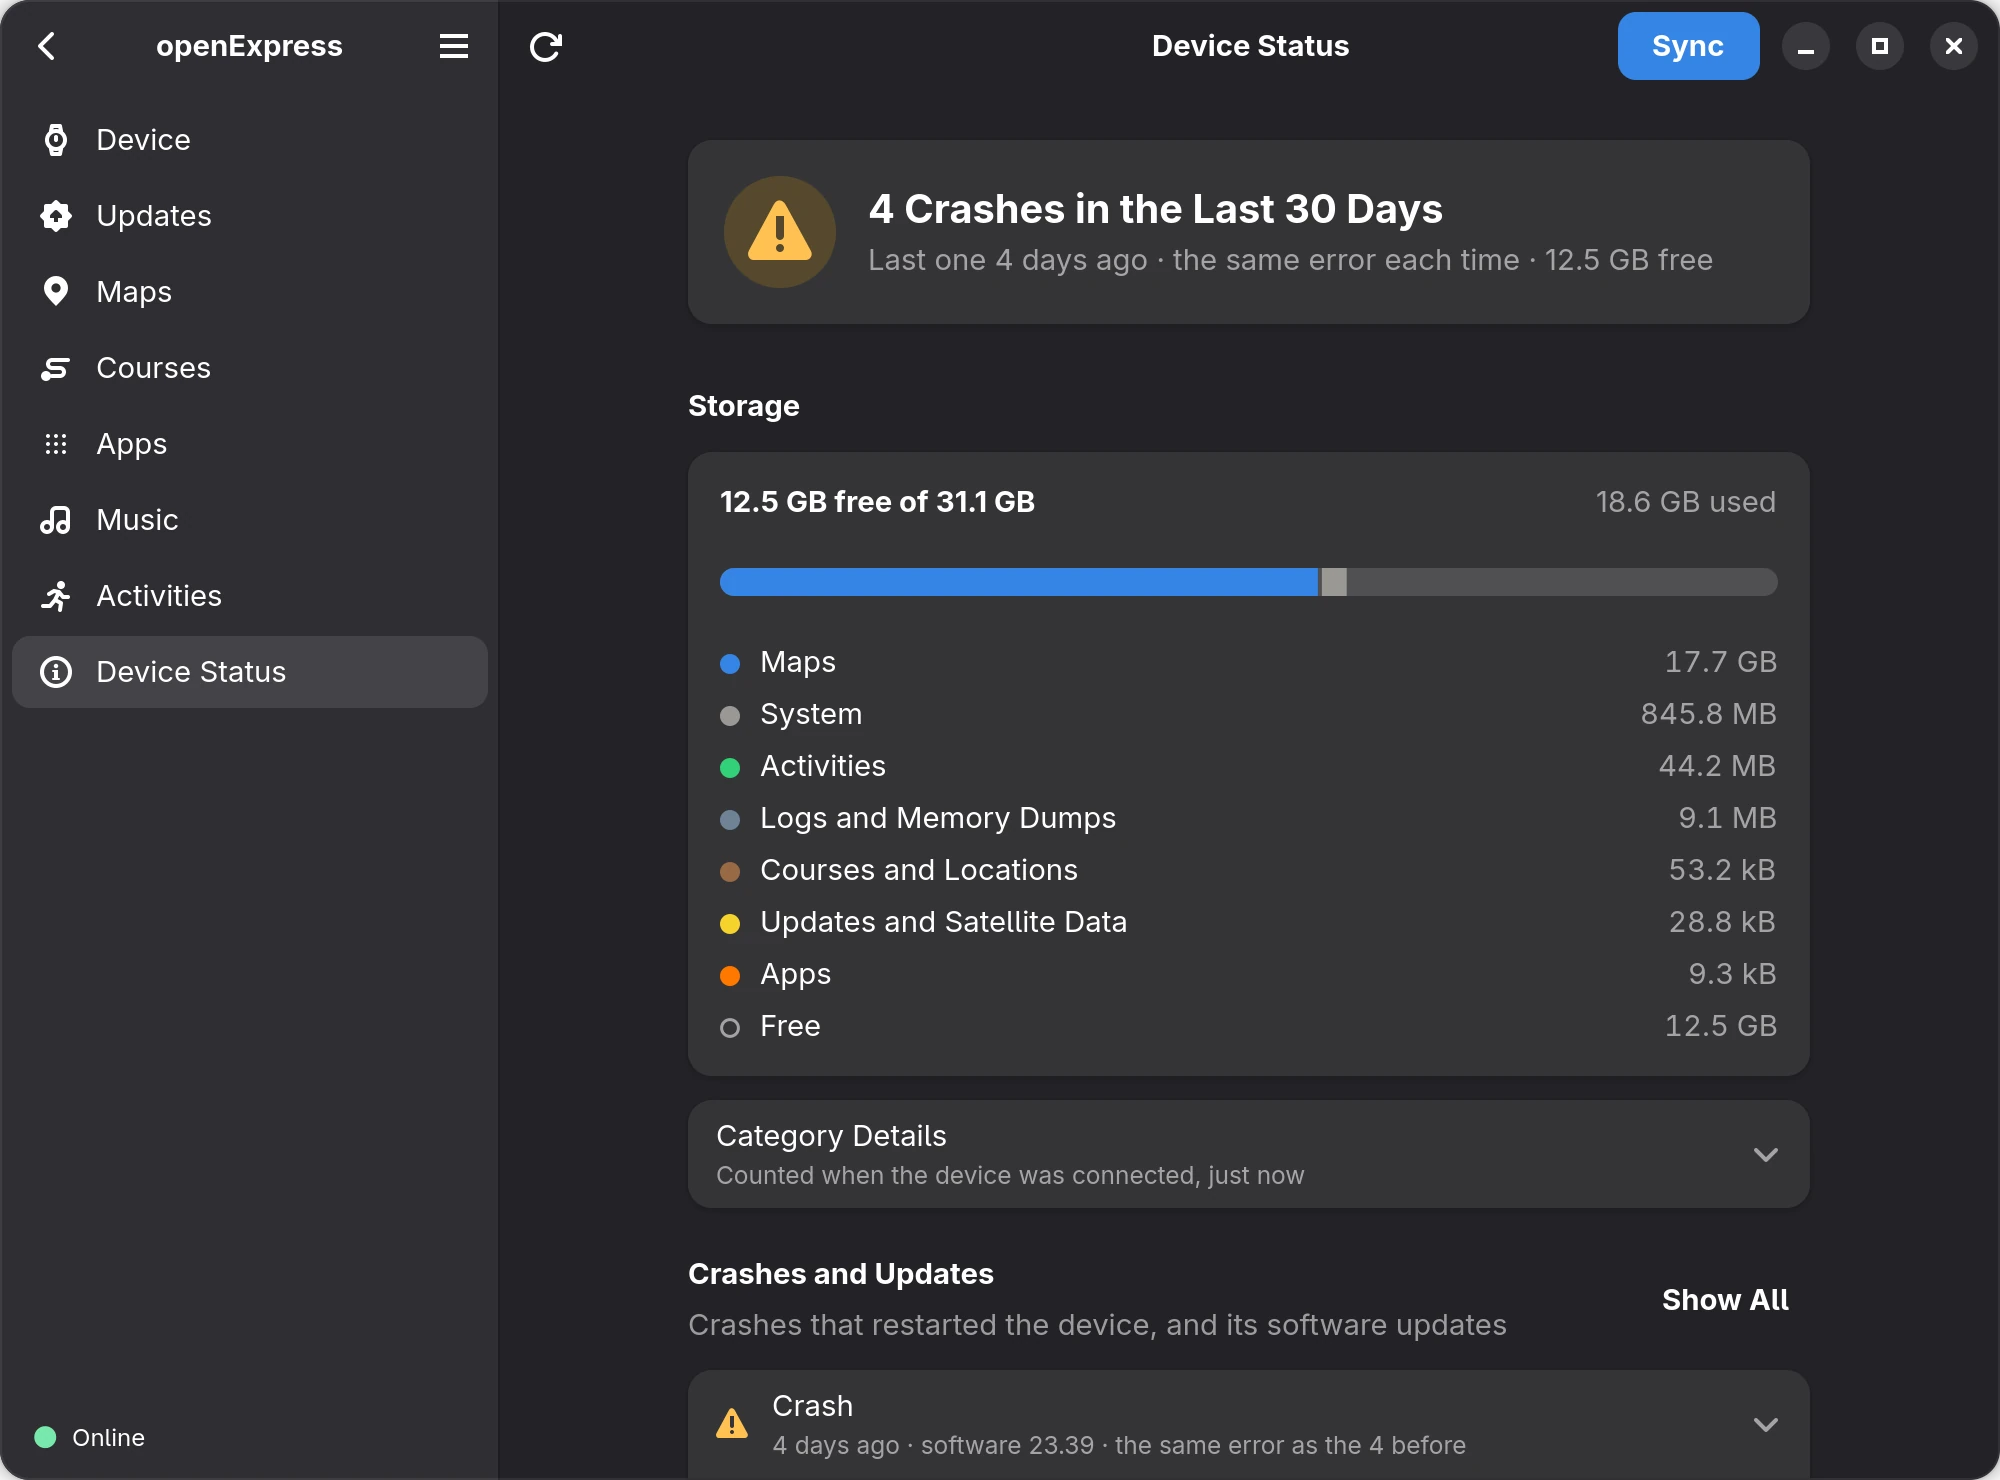
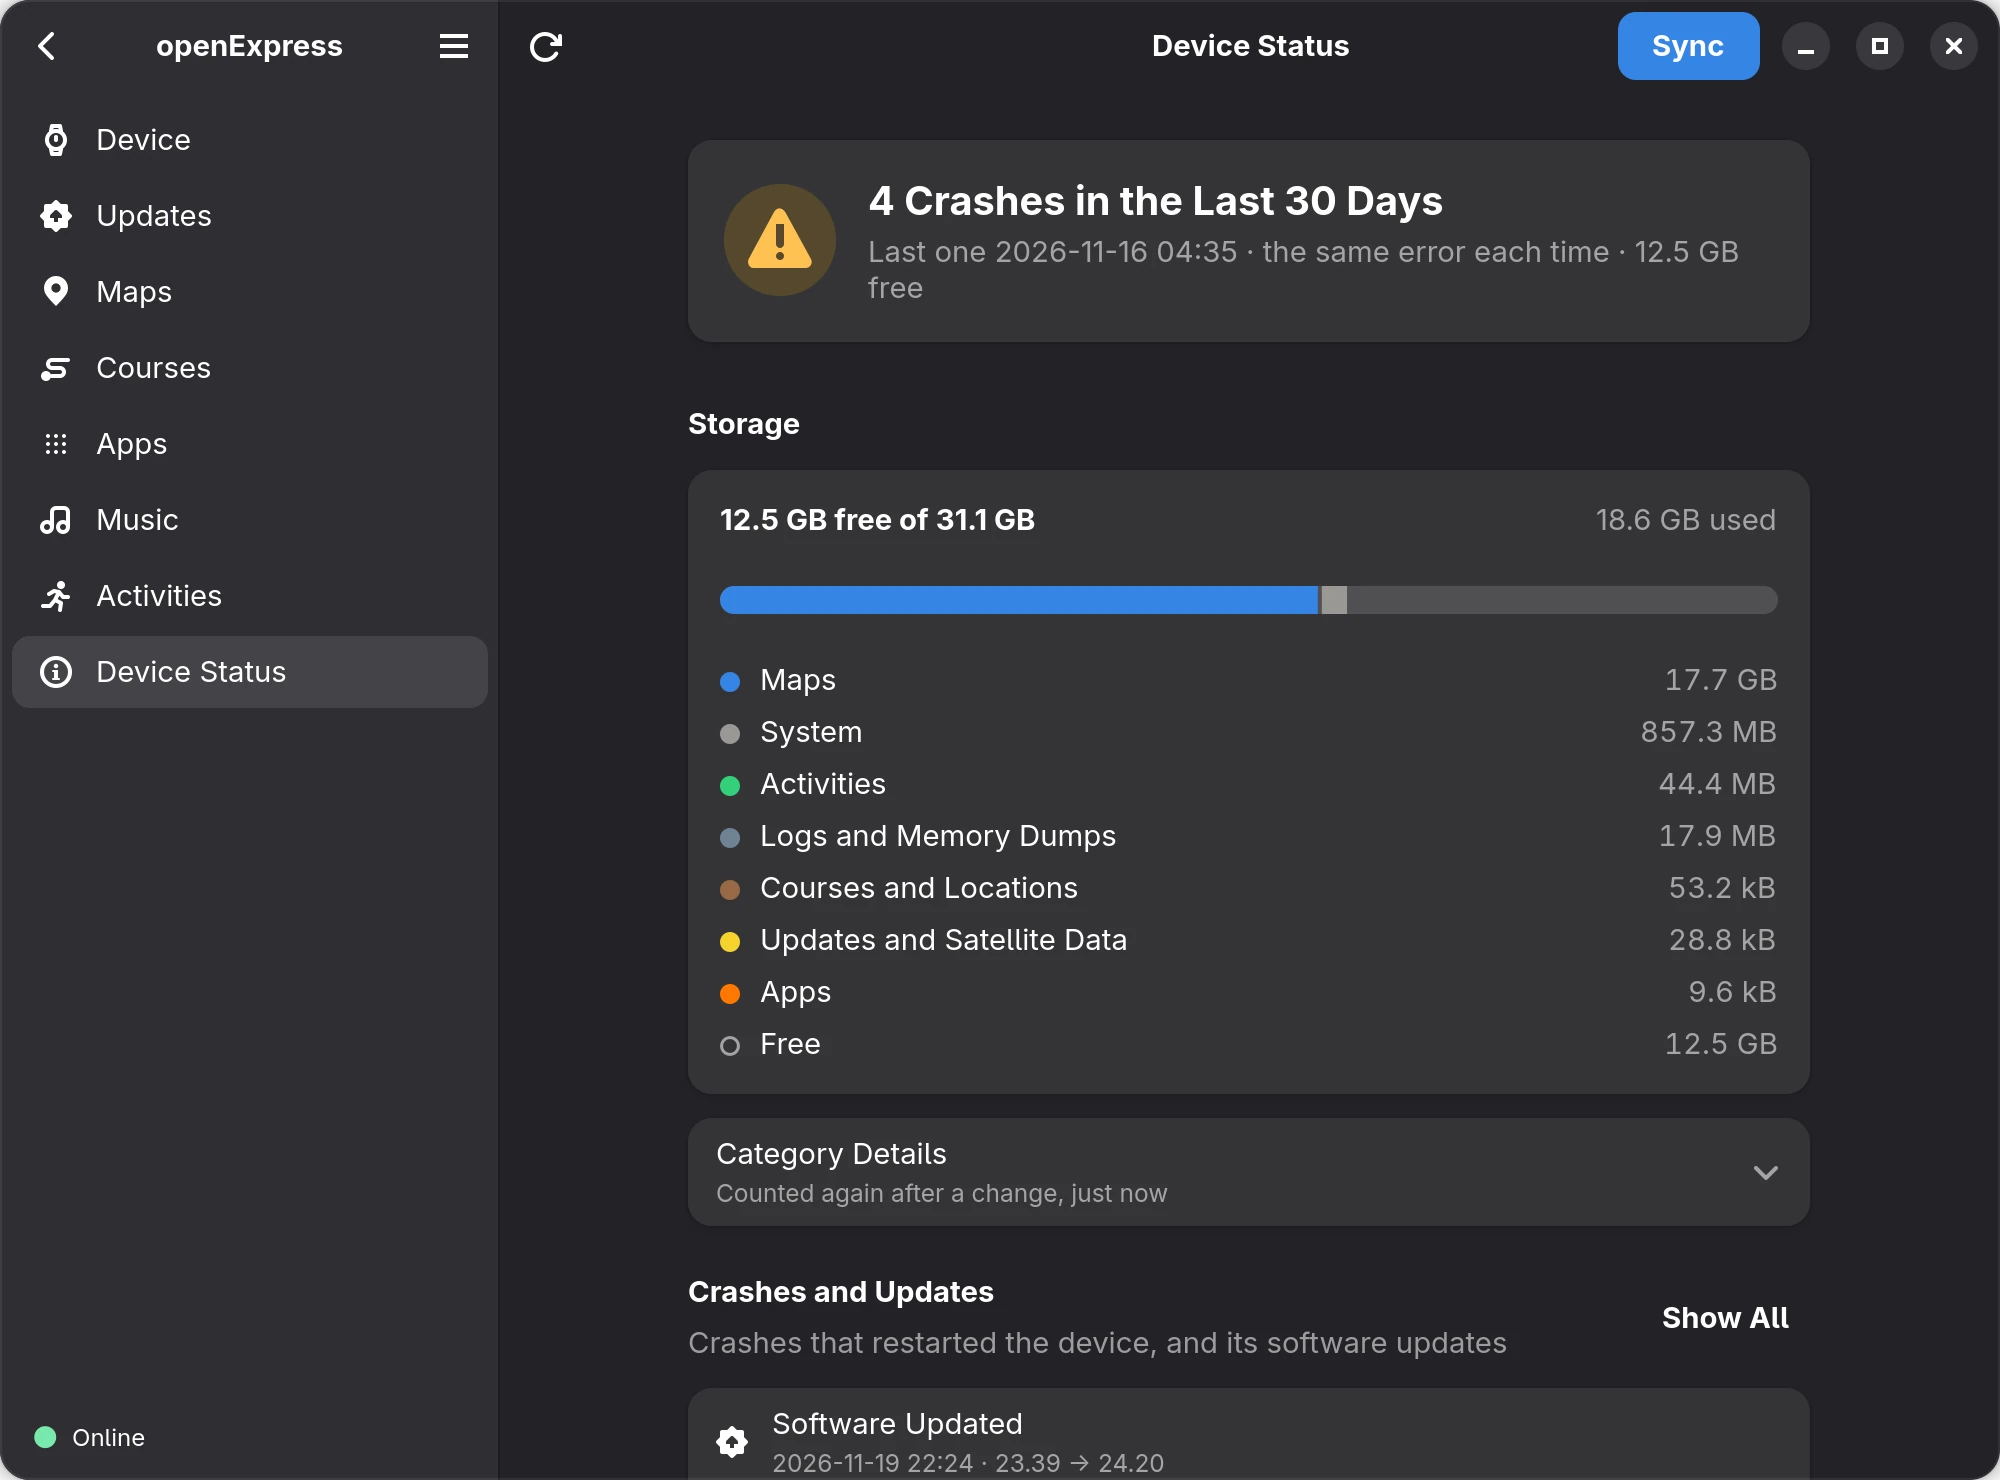
Website: the pictures of Apps, Device Status and Update Ready as the window shows them now

diff --git a/index.html b/index.html
@@ -159,7 +159,7 @@ flatpak install --user bojanowski io.github.tomaszbojanowski.OpenExpress</code><
     <a class="zoom spotlight-image" href="screenshots/full/light-apps.webp" data-dark="screenshots/full/dark-apps.webp" data-caption="Connect IQ apps: install, update, remove and put back in order">
       <picture>
         <source media="(prefers-color-scheme: dark)" srcset="screenshots/dark-apps.webp">
-        <img src="screenshots/light-apps.webp" width="1400" height="1036" loading="lazy" alt="The Apps page: two apps with updates, Update All, the order restored from a copy and an app of the account ready to install">
+        <img src="screenshots/light-apps.webp" width="1400" height="1036" loading="lazy" alt="The Apps page: an app with an update, Update All, the order restored from a copy and an app of the account ready to install">
       </picture>
     </a>
   </section>
@@ -223,7 +223,7 @@ flatpak install --user bojanowski io.github.tomaszbojanowski.OpenExpress</code><
         <a class="zoom" href="screenshots/full/light-update-ready.webp" data-dark="screenshots/full/dark-update-ready.webp">
           <picture>
             <source media="(prefers-color-scheme: dark)" srcset="screenshots/dark-update-ready.webp">
-            <img src="screenshots/light-update-ready.webp" width="1400" height="1036" loading="lazy" alt="The Updates page of a fēnix 8 after the copy: Updates ready: unplug the device to install them, 1 more available, 23.39 → 24.20, the System Software Bundle and a map support file, with Check Again; the audio prompt bundle still offered">
+            <img src="screenshots/light-update-ready.webp" width="1400" height="1036" loading="lazy" alt="The Updates page of a fēnix 8 after a font component was copied: Update Ready, Unplug the device to install it, 0.01 → 2.00, TTF Binary Data, Garmin Misc, with Check Again">
           </picture>
         </a>
         <figcaption>Copied: the device installs it once unplugged</figcaption>
@@ -271,7 +271,7 @@ flatpak install --user bojanowski io.github.tomaszbojanowski.OpenExpress</code><
         <a class="zoom" href="screenshots/full/light-status.webp" data-dark="screenshots/full/dark-status.webp">
           <picture>
             <source media="(prefers-color-scheme: dark)" srcset="screenshots/dark-status.webp">
-            <img src="screenshots/light-status.webp" width="1400" height="1036" loading="lazy" alt="The Device Status page of a fēnix 8 watch: four crashes in the last 30 days, its storage by kind of file, maps the largest, and the newest crash at the top of its list">
+            <img src="screenshots/light-status.webp" width="1400" height="1036" loading="lazy" alt="The Device Status page of a fēnix 8 watch: four crashes in the last 30 days, its storage by kind of file, maps the largest, and at the top of its history the software update from 23.39 to 24.20">
           </picture>
         </a>
         <figcaption>Crashes in the last 30 days and the storage by kind of file</figcaption>
@@ -280,7 +280,7 @@ flatpak install --user bojanowski io.github.tomaszbojanowski.OpenExpress</code><
         <a class="zoom" href="screenshots/full/light-status-history.webp" data-dark="screenshots/full/dark-status-history.webp">
           <picture>
             <source media="(prefers-color-scheme: dark)" srcset="screenshots/dark-status-history.webp">
-            <img src="screenshots/light-status-history.webp" width="1400" height="1036" loading="lazy" alt="The Device Status page of an Edge 1050 bike computer: its software update from 33.20 to 33.21 and its first connection to this computer, its diagnostic files (two copies on this computer, one memory dump) and Report a Problem">
+            <img src="screenshots/light-status-history.webp" width="1400" height="1036" loading="lazy" alt="The Device Status page of an Edge 1050 bike computer: its software updates from 33.20 to 33.21 and from 33.21 to 33.22, and its first connection to this computer, its diagnostic files (two copies on this computer, one memory dump) and Report a Problem">
           </picture>
         </a>
         <figcaption>Crashes and software updates in one list, here on an Edge 1050</figcaption>
